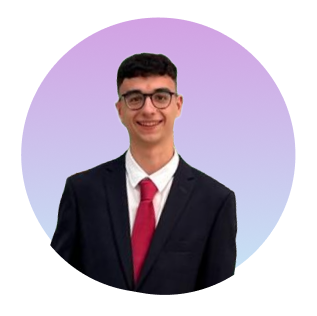
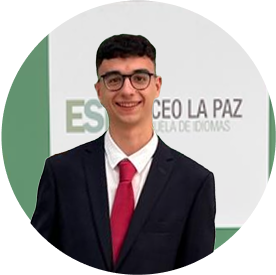
change image profile and description

diff --git a/index.html b/index.html
@@ -8,6 +8,7 @@
     <title>Eloy García - Junior Full Stack Developer</title>
     <link rel="stylesheet" href="styles.css" type="text/css">
     <link rel="icon" type="image/png" href="img/Group 5(1).png ">
+    <link rel="stylesheet" href="https://cdnjs.cloudflare.com/ajax/libs/font-awesome/6.5.1/css/all.min.css">
 </head>
 <body>
 
@@ -35,7 +36,7 @@
         </button>
         <article class="nombre">
             <div class="texto-nombre">
-            <h1>Eloy García Martínez</h1>
+            <h1>Eloy García Martínez </h1>
             <h2>
                 Junior Full Stack Developer, técnico  
                 superior especializado en desarrollo 
@@ -102,21 +103,24 @@
                 <div class="github1">
                     <a href="https://github.com/E7OY" target="_blank"><img src="img/github.webp" width="20" height="20" alt="logo github"></a>
                 </div>
-                <div class="mail">
-                    <a href="mailto:soyeloygarciamartinez@gmail.com" target="_blank"><img src="img/mail.webp" width="20" height="20" alt="logo mail"></a>
-                </div>
-                <div class="ig">
-                    <a href="https://www.instagram.com/eloygarciaaa_/" target="_blank"><img src="img/instagram.webp" width="20" height="20" alt="logo instagram"></a>
-                </div>
             </div>
         </article>
 
         <article class="sobre-mi general">
             <h2 id="sobre-mi">Sobre mí</h2>
             <p>
-                Actual estudiante del ciclo superior de Desarrollo de Aplicaciones Web (DAW). 
-                Vivo en A Coruña, España. Tengo experiencia trabajando como desarrollador y
-                administrador de webs. 
+                Actualmente trabajando como <u>desarrollador de software</u> para <span style="color: #D90C1D;">Tecdesoft</span> en las prácticas del ciclo de
+                Desarrollo de Aplicaciones Web (DAW) en el Liceo La Paz.
+                <br>
+                <br>
+                Me apasiona el desarrollo web y la programación. Me gusta aprender nuevas tecnologías y mejorar mis habilidades.
+                <br>
+                <br>
+                Me considero una persona responsable, organizada y con capacidad de trabajo en equipo.
+                Me gusta afrontar nuevos retos y aprender de ellos. 
+                <br>
+                <br>
+                Puedes contactarme en mi <a href="https://www.linkedin.com/in/eloy-garcia-martinez-189525208/" target="_blank" class="linkedin-link">Linkedin</a> o <a href="https://github.com/E7OY" target="_blank" class="github-link">Github</a>, donde tengo varios proyectos y repositorios de código abierto.
             </p>
         </article>
 
@@ -165,12 +169,10 @@
                 2023 - 2025
             </h3>
             <p>
-                Habilidades en Git para control de versiones. Dominio de React, HTML5 y CSS3 para frontend. 
-                Experiencia en SQL, Spring, PHP y Java para el desarrollo backend. Familiaridad con Docker, Symfony y otras tecnologías.
-                Desarrollar, implantar y mantener aplicaciones web.
-                Gestionar servidores de aplicaciones así como bases de datos.
-                Desarrollar componentes multimedia para su integración en aplicaciones web.
-                Desarrollar e integrar componentes software en entorno del servidor web.
+                Dominio sólido de Java, con amplia experiencia en desarrollo backend utilizando frameworks como Spring. 
+                Manejo avanzado de control de versiones con Git. Desarrollo frontend con React, HTML5, CSS3 y Tailwind. 
+                Experiencia en bases de datos SQL, además de conocimientos en PHP y Symfony. Familiaridad con Docker, TypeScript, 
+                Bootstrap y otras tecnologías complementarias.
             </p>
             </div>
         </article>
@@ -457,46 +459,55 @@
             <h2 id="habilidades">Habilidades</h2>
             <div class="lenguajes-habilidades">
                 <div class="lenguaje">
-                    <img src="img/html-5(3).webp" width="18" height="18" alt="logo html"><h4>HTML</h4>
+                    <i class="fa-brands fa-html5"></i><h4>HTML</h4>
                 </div>
                 <div class="lenguaje">
-                    <img src="img/css(2).webp" width="18" height="18" alt="logo cSS"><h4>CSS</h4>
+                    <i class="fa-brands fa-css3-alt"></i><h4>CSS</h4>
                 </div>
                 <div class="lenguaje">
-                    <img src="img/tecnologia.webp" width="20" height="20" alt="logo javascript"><h4>JAVAsCRIPT</h4>
+                    <img src="img/js.png" width="20" alt=""><h4>JavaScript</h4>
                 </div>
                 <div class="lenguaje">
-                    <img src="img/social(1).webp" width="20" height="20" alt="logo jquery"><h4>jQUERY</h4>
+                    <i class="fa-brands fa-react"></i><h4>REACT</h4>
                 </div>
                 <div class="lenguaje">
-                    <img src="img/sass.webp" width="30" height="20" alt="logo sass"><h4>SASS</h4>
+                    <img src="img/tailwind.png" width="20" alt=""><h4>Tailwind</h4>
                 </div>
                 <div class="lenguaje">
-                    <img src="img/icons8-oreja-500.webp" width="20" height="20" alt="logo bootstrap"><h4>Bootstrap</h4>
+                    <img src="img/bootstrap.png" width="20" alt=""><h4>BootStrap</h4>
                 </div>
                 <div class="lenguaje">
-                    <img src="img/java(1).webp" width="20" height="20" alt="logo java"><h4>JAVA</h4>
+                    <i class="fa-brands fa-sass"></i><h4>SASS</h4>
+                </div>
+            </div>
+            <br>
+            <div class="lenguajes-habilidades">
+                <div class="lenguaje">
+                    <img src="img/Logo_C_sharp.webp" width="20" alt=""><h4>C#</h4>
                 </div>
                 <div class="lenguaje">
-                    <img src="img/spring.webp" width="20" height="20" alt="logo spring"><h4>SPRING</h4>
+                    <i class="fa-brands fa-java"></i><h4>JAVA</h4>
                 </div>
                 <div class="lenguaje">
-                    <img src="img/base-de-datos.webp" width="20" height="20" alt="logo mysql"><h4>MySQL</h4>
+                    <img src="img/springboot.png" width="20" alt=""><h4>SPRING</h4>
                 </div>
                 <div class="lenguaje">
-                    <img src="img/php.webp" width="20" height="20" alt="logo php"><h4>PHP</h4>
+                    <img src="img/mysql.png" width="20" alt=""><h4>MySQL</h4>
                 </div>
                 <div class="lenguaje">
-                    <img src="img/wordpress.webp" width="20" height="20" alt="logo wordpress"><h4>WordPress</h4>
+                    <i class="fa-brands fa-php"></i><h4>PHP</h4>
+                </div>
+            </div>
+            <br>
+            <div class="lenguajes-habilidades">
+                <div class="lenguaje">
+                    <i class="fa-brands fa-wordpress"></i><h4>WordPress</h4>
                 </div>
                 <div class="lenguaje">
-                    <img src="img/joomla.webp" width=20 height="20" alt="logo joomla"><h4>Joomla!</h4>
+                    <img src="img/joomla.png" width="20" alt=""><h4>Joomla!</h4>
                 </div>
                 <div class="lenguaje">
-                    <img src="img/prestashop(2).webp" width="20" height="20" alt="logo prestashop"><h4>PrestaShop</h4>
-                </div>
-                <div class="lenguaje">
-                    <img src="img/icons8-moodle-500(1).webp" width="20" height="20" alt="logo moodle"><h4>Moodle</h4>
+                    <img src="img/moodle.png" width="20" alt=""><h4>Moodle</h4>
                 </div>
             </div>
         </article>

diff --git a/styles.css b/styles.css
@@ -259,6 +259,26 @@ article .img-nombre {
      
 }
 
+
+.linkedin-link {
+    color: #0A66C2 !important;
+}
+
+.github-link {
+    color: #f0f6fc !important;
+}
+
+
+.linkedin-link:hover::after, .github-link:hover::after {
+    width: 100%;
+    transition: 2s ease all;
+    text-decoration: underline;
+}
+
+p {
+    max-width: 80ch;
+}
+
 .modal {
     position: fixed;
     top: 0;
@@ -295,15 +315,13 @@ article .img-nombre {
 
 
 .redes a {
-    border: 2px solid #e9e9e9;
     border-radius: 5px;
-    padding: 13px 10px 5px 10px;
 }
 .redes {
     clear: both;
     display: flex;
     flex-direction: row;
-    gap: 15px;
+    gap: 25px;
     margin-bottom: 40px;
 }
 .redes div {
@@ -482,7 +500,7 @@ h4 {
     justify-content: center;
     background: #eeeeee;
     border-radius: 30px;
-    padding: 8px 15px;
+    padding: 10px 15px;
 }
 .lenguaje img {
     float: left;
@@ -656,3 +674,19 @@ article .img-nombre {
 }
 
 
+
+
+
+.lenguaje i {
+    font-size: 20px;
+    margin-right: 8px;
+}
+
+.fa-html5 { color: #E34F26; }
+.fa-css3-alt { color: #1572B6; }
+.fa-js { color: #F7DF1E; }
+.fa-react { color: #61DAFB; }
+.fa-sass { color: #CC6699; }
+.fa-php { color: #777BB4; }
+.fa-wordpress { color: #21759B; }
+.fa-java { color: #007396; }
